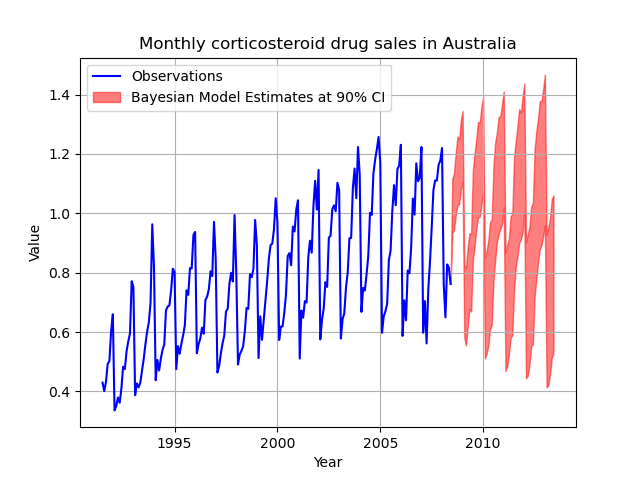
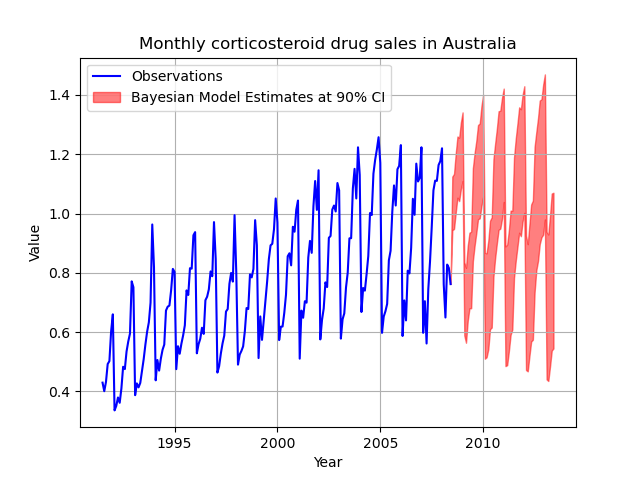
Added example of a Bayesian estimator predicting missing samples.

diff --git a/ARIMA/examples/bayesian.py b/ARIMA/examples/bayesian.py
@@ -12,7 +12,7 @@ import pyro
 import os
 from pyro.infer import Predictive
 from ARIMA import BayesianARIMA
-from ARIMA.examples.utils import load_data, calc_percentiles, plot
+from ARIMA.examples.utils import load_data, calc_percentiles
 
 def create_model(obs_idx, num_predictions):
     # Create model with non-overlapping observed and predicted sample indices.
@@ -45,12 +45,6 @@ if __name__ == "__main__":
     num_predictions = 5 * 12
     obs_idx = range(len(observations))
 
-    # num_predictions = 0
-    # obs_idx = [*range(80)] + [*range(140,len(observations))]
-
-    # num_predictions = 0
-    # obs_idx = range(60, len(observations))
-
     model = create_model(obs_idx, num_predictions)
 
     guide = fit(model, observations[model.obs_idx])
@@ -63,11 +57,17 @@ if __name__ == "__main__":
                             return_sites=("_RETURN",))
     samples = predictive()['_RETURN']
 
-    # Plot predictions
+    confidence_interval = [0.05, 0.95]
+
+    plt.figure()
+
+    # Plot observations
     plt.plot(year[model.obs_idx], observations[model.obs_idx], 'b', label='Observations')
+
+    # Plot confidence interval of predictions
     all_year = np.concatenate((year, year[-1] + (np.arange(len(model.obs_idx) + len(model.predict_idx) - len(year)) + 1) * np.diff(year).mean()))
     idx = sorted(set(np.clip([min(model.predict_idx) - 1, max(model.predict_idx) + 1] + model.predict_idx, 0, len(all_year) - 1)))
-    ci = calc_percentiles(samples[:,idx], [0.05, 0.95])
+    ci = calc_percentiles(samples[:,idx], confidence_interval)
     plt.fill_between(all_year[idx], ci[0], ci[1], color='r', alpha=0.5, label='Bayesian Model Estimates at 90% CI')
     
     plt.xlabel('Year')
@@ -106,11 +106,11 @@ if __name__ == "__main__":
     cis = []
     one_year_mean_ci = []
     five_year_mean_ci = []
-    for ratio, idx, sample, color in zip(ratios, indices, samples, colors):
-        cis.append(calc_percentiles(sample, [0.05, 0.95]))
-        plot(year[idx], cis[-1], observations[idx],
-             samples_label='Bayesian Estimator at {}% of data at 90% CI'.format(100 * ratio), samples_color=color)
-        ci = cis[-1][:,-num_predictions:]
+    for ratio, idx, model, sample, color in zip(ratios, indices, models, samples, colors):
+        cis.append(calc_percentiles(sample, confidence_interval))
+        ci = cis[-1][...,model.predict_idx]
+        plt.fill_between(all_year[min(idx):][model.predict_idx], ci[0], ci[1],
+                         label='Bayesian Estimator at {}% of data at 90% CI'.format(100 * ratio), color=color, alpha=0.5)
         one_year_mean_ci.append((ci[1]-ci[0])[:12].mean())
         five_year_mean_ci.append((ci[1]-ci[0]).mean())
 
@@ -134,5 +134,58 @@ if __name__ == "__main__":
     plt.grid()
 
     output_file_name = plots_dir + '/bayesian_example_ratio_ci.png'
+    plt.savefig(output_file_name)
+    print('Saved output file ' + output_file_name)
+
+    ####################################
+    # Show predictions of missing data #
+    ####################################
+    missing_ratios = np.linspace(0, 1, 5)
+    missing_models = []
+    missing_guides = []
+    missing_samples = []
+    for missing_ratio in missing_ratios:
+        start_predict = np.floor(missing_ratio * (len(observations) - num_predictions))
+        obs_idx = [idx for idx in range(len(observations)) if idx < start_predict or idx >= start_predict + num_predictions]
+        missing_models.append(create_model(obs_idx, len(observations) - max(obs_idx) - 1))
+        missing_guides.append(fit(missing_models[-1], observations[obs_idx]))
+        missing_samples.append(Predictive(missing_models[-1],
+                                          guide=missing_guides[-1],
+                                          num_samples=num_samples,
+                                          return_sites=("_RETURN",))()['_RETURN'])
+
+    # Calculate confidence intervals of predictions
+    missing_cis = [calc_percentiles(s[...,m.predict_idx], confidence_interval) for s, m in zip(missing_samples, missing_models)]
+    missing_mean_cis = [(ci[1] - ci[0]).mean() for ci in missing_cis]
+
+    # Plot predictions and actuals
+    plt.figure()
+    for n, (missing_model, missing_ci) in enumerate(zip(missing_models, missing_cis)):
+        plt.subplot(len(missing_ratios), 1, n+1)
+        plt.fill_between(year[missing_model.predict_idx],
+                         missing_ci[0], missing_ci[1], color='r', alpha=0.5)
+        plt.plot(year, observations, 'b')
+        plt.grid()
+        plt.ylabel('Value')
+        if n == 0:
+            plt.title('Predicting Arbitrary Missing Samples at 90% CI')
+        if n < (len(missing_ratios) - 1):
+            plt.gca().xaxis.set_tick_params(labelbottom=False)
+    
+    plt.xlabel('Year')
+
+    output_file_name = plots_dir + '/bayesian_example_missing.png'
+    plt.savefig(output_file_name)
+    print('Saved output file ' + output_file_name)
+
+    # Plot mean confidence interval versus missing samples location 
+    plt.figure()
+    plt.plot(100 * missing_ratios, missing_mean_cis, 'bo-')
+    plt.xlabel('Amount of Data Before First Missing Sample [%]')
+    plt.ylabel('Mean 90% CI')
+    plt.title('Bayesian Estimator 90% CI vs Missing Samples Location')
+    plt.grid()
+
+    output_file_name = plots_dir + '/bayesian_example_missing_ci.png'
     plt.savefig(output_file_name)
     print('Saved output file ' + output_file_name)

diff --git a/ARIMA/examples/mle.py b/ARIMA/examples/mle.py
@@ -10,7 +10,7 @@ import torch as pt
 import numpy as np
 import os
 from ARIMA import ARIMA
-from ARIMA.examples.utils import load_data, calc_percentiles, plot
+from ARIMA.examples.utils import load_data, calc_percentiles
 
 def fit(model, observations,
         lr_sequence=[(0.005, 100),
@@ -38,7 +38,7 @@ def predict(model, innovations, num_samples, num_predictions):
         all_innovations = pt.cat([innovations, new_innovations])
         all_observations = model.predict(all_innovations).detach().numpy()
         samples.append(all_observations)
-    return np.array(samples)
+    return np.array(samples)[...,len(innovations):]
 
 if __name__ == "__main__":
     ##########################################
@@ -54,10 +54,21 @@ if __name__ == "__main__":
     num_predictions = 5 * 12
     samples = predict(model, fit_result['innovations'], num_samples, num_predictions)
 
+    confidence_interval = [0.05, 0.95]
+
     plt.figure()
-    plot(year, calc_percentiles(samples, [0.05, 0.95]), observations,
-         observations_label='Observations',
-         samples_label='Maximum Likelihood Estimates (MLE) at 90% CI')
+
+    # Plot observations
+    plt.plot(year, observations, color='b', label='Observations')
+
+    # Plot confidence interval of predictions
+    samples_year = max(year) + (np.arange(num_predictions) + 1) * np.diff(year).mean()
+    ci = calc_percentiles(samples, confidence_interval)
+    plt.fill_between([year[-1]] + list(samples_year),
+                     [observations[-1]] + list(ci[0]),
+                     [observations[-1]] + list(ci[1]),
+                     label='Maximum Likelihood Estimates (MLE) at 90% CI', alpha=0.5, color='r')
+    
     plt.title('Monthly corticosteroid drug sales in Australia')
     plt.xlabel('Year')
     plt.ylabel('Value')
@@ -92,12 +103,11 @@ if __name__ == "__main__":
     one_year_mean_ci = []
     five_year_mean_ci = []
     for ratio, idx, sample, color in zip(ratios, indices, samples, colors):
-        cis.append(calc_percentiles(sample, [0.05, 0.95]))
-        plot(year[idx], cis[-1], observations[idx],
-             samples_label='MLE {}% of data at 90% CI'.format(100 * ratio), samples_color=color)
-        ci = cis[-1][:,-num_predictions:]
-        one_year_mean_ci.append((ci[1]-ci[0])[:12].mean())
-        five_year_mean_ci.append((ci[1]-ci[0]).mean())
+        cis.append(calc_percentiles(sample, confidence_interval))
+        plt.fill_between(samples_year, cis[-1][0], cis[-1][1],
+                         label='MLE {}% of data at 90% CI'.format(100 * ratio), color=color, alpha=0.5)
+        one_year_mean_ci.append((cis[-1][1]-cis[-1][0])[:12].mean())
+        five_year_mean_ci.append((cis[-1][1]-cis[-1][0]).mean())
 
     plt.xlabel('Year')
     plt.ylabel('Value')

diff --git a/ARIMA/examples/utils.py b/ARIMA/examples/utils.py
@@ -15,15 +15,3 @@ def calc_percentiles(samples, percentiles):
     samples = np.sort(samples, axis=0)
     indices = [int(np.floor(p * samples.shape[0])) for p in percentiles]
     return samples[indices]
-
-def plot(time, samples, observations,
-         samples_label=None, observations_label=None,
-         samples_color='r', observations_color='b'):
-    if observations_label is not None:
-        plt.plot(time, observations, color=observations_color, label='Observations')
-    all_time = np.concatenate((time, time[-1] + (np.arange(samples.shape[1] - len(time)) + 1) * np.diff(time).mean()))
-    idx = range(len(observations) - 1, len(all_time))
-    if samples_label is not None:
-        plt.fill_between(all_time[idx], samples[0, idx], samples[1, idx], color=samples_color, alpha=0.5,
-                         label=samples_label)
-
